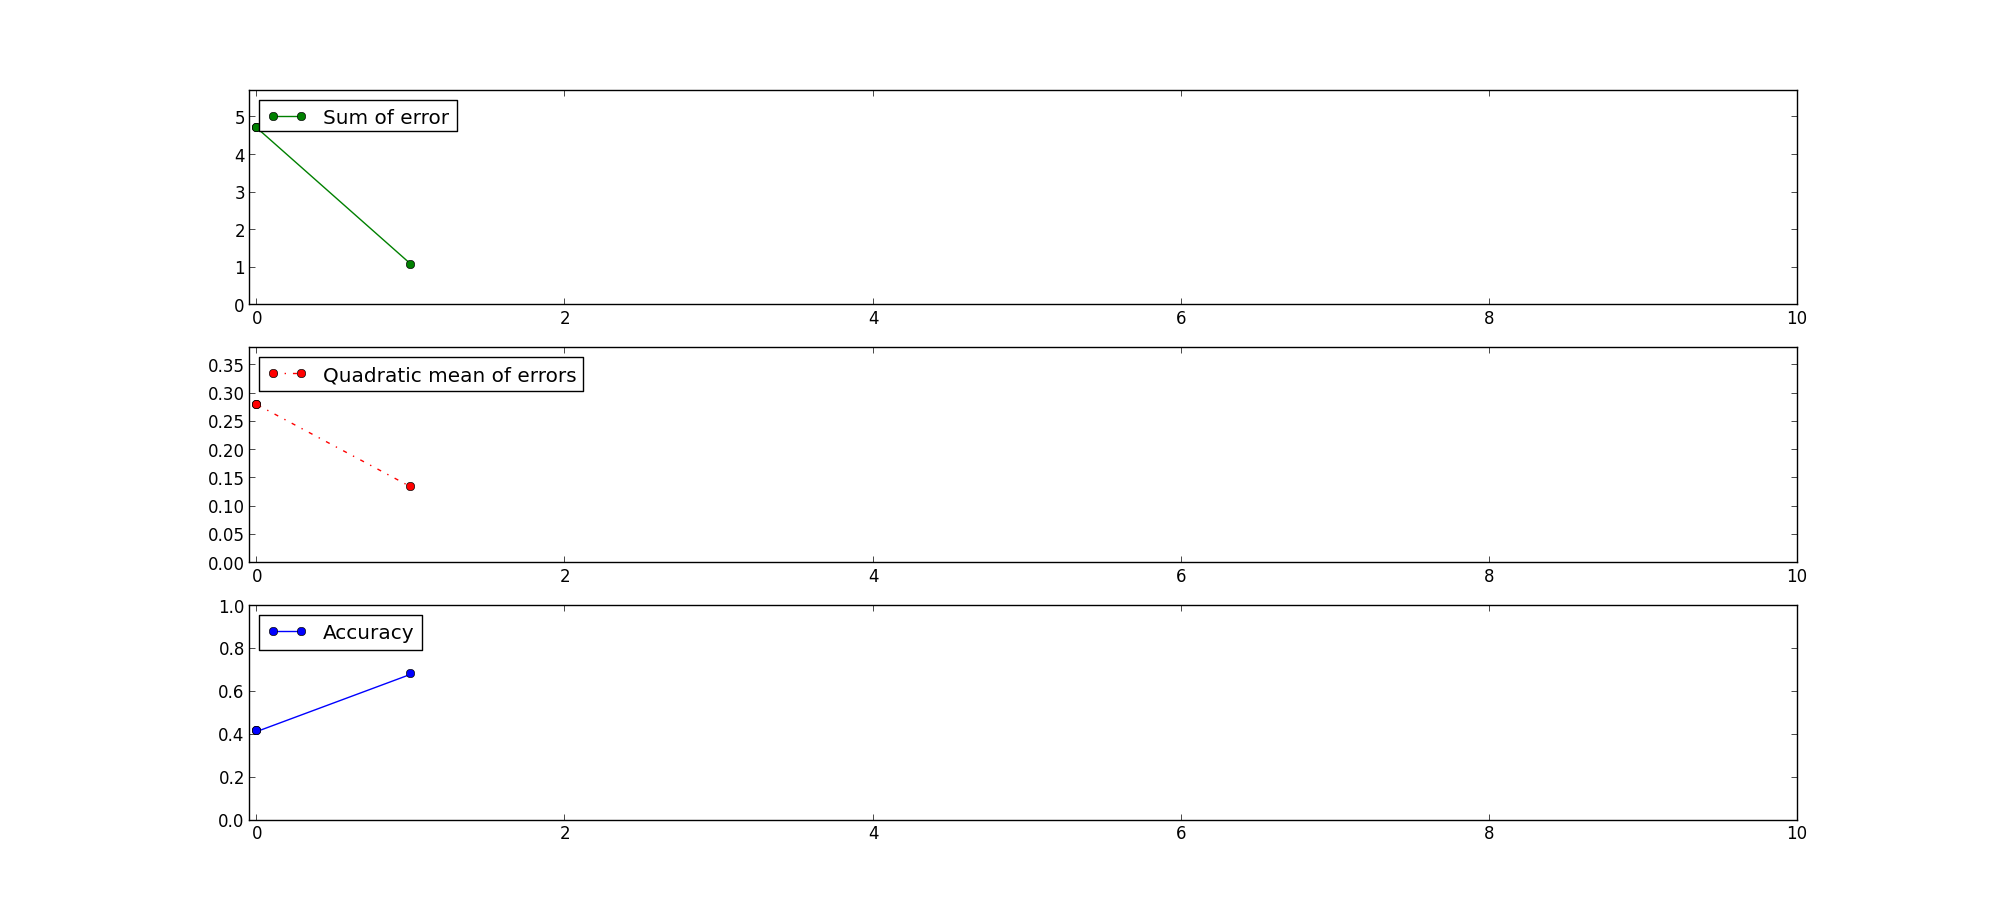
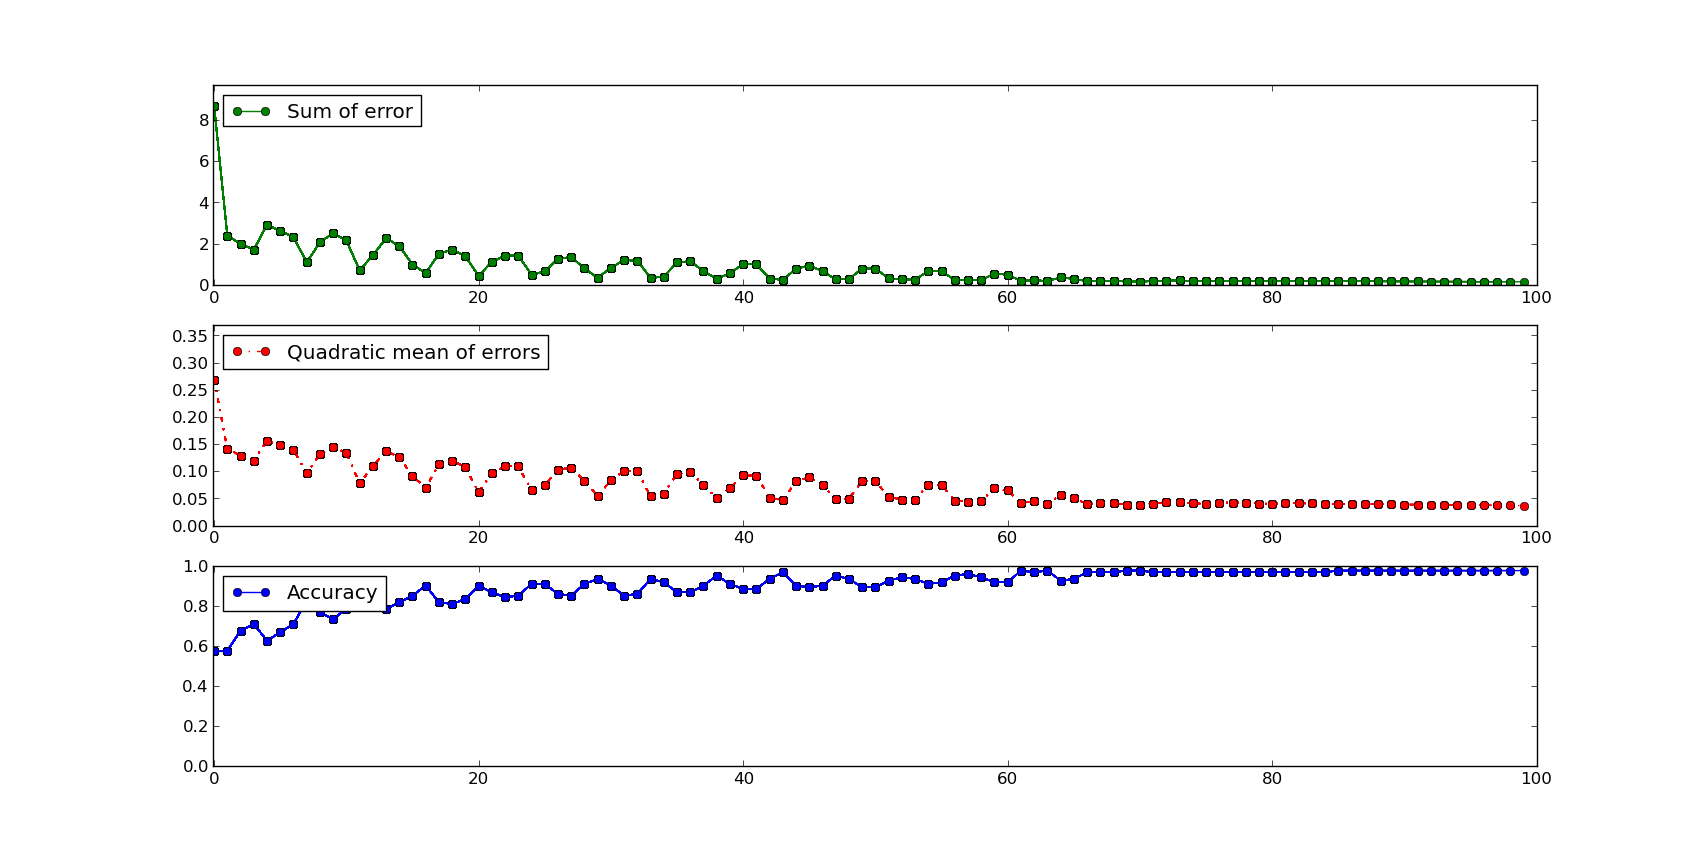
current_error na validation ne training_set, uložení figure na konci s acc

Changed region(s): [[0.0931, 0.2444, 0.9004, 0.8249], [0.1242, 0.0917, 0.9004, 0.2139], [0.0931, 0.886, 0.9004, 0.9166]]

diff --git a/classes_1.py b/classes_1.py
@@ -207,7 +207,7 @@ else:
     
 print "    Every day I'm shuffling!!!! (data sets)"
 shuffle(training_set)
-training_set = training_set[0:5]
+training_set = training_set[0:50]
 print "Preprocessing successfully finished in time: {0:.2f}secs!\n".format(time.time() - preproc_strat_time)
 
 
@@ -219,7 +219,7 @@ error_plot = Plot(size, topologie)
 for i in xrange(100):
     iter_time = time.time()
     
-    accuracy, current_error = net.net_error(training_set)
+    accuracy, current_error = net.net_error(validation)
     error_plot.update(current_error, accuracy)
     
     net.before_last = net.last
@@ -230,7 +230,7 @@ for i in xrange(100):
     
     print "    Current epsilon: {0:.2f}".format(net.eps)
     
-    if current_error[0] < 0.06 and current_error[1] < 0.1:
+    if current_error[0] < 0.1 and current_error[1] < 0.1:
         break
     for vzor in training_set:
         net.weight_correction(vzor,i)
@@ -244,5 +244,10 @@ for i, valid_vzor in enumerate(validation):
     net_out = net.calc_out(valid_vzor[0])
     if valid_vzor[1][0] == int(round(net_out[0])):
         acc_sum += 1
-     
+        
+        
 print "Network accuracy: {0:.3f}".format(float(acc_sum)/len(validation))
+
+acc = float(acc_sum)/len(validation)
+
+error_plot.save_plot(acc)

diff --git a/preprocess.py b/preprocess.py
@@ -147,7 +147,7 @@ def cut(obrazek, pix, (left,up), (x,y), size):
 			i = x-2
 			j = j-1
 			if j == 0:
-				print "prazdny obrazek"
+ 				print "prazdny obrazek"
 				return
 		else:
 			i = i-1
@@ -220,12 +220,12 @@ def cut(obrazek, pix, (left,up), (x,y), size):
  		output_vector.extend(matice[i])
  	
  	#vykresleni matice
-    	arr = zeros((len(matice[0]), len(matice)))
-    	for i in xrange(len(matice[0])):
-    		for j in xrange(len(matice)):
-    			arr[i][j] = matice[j][i]
-   	matshow(arr)
-   	show()
+#     	arr = zeros((len(matice[0]), len(matice)))
+#     	for i in xrange(len(matice[0])):
+#     		for j in xrange(len(matice)):
+#     			arr[i][j] = matice[j][i]
+#    	matshow(arr)
+#    	show()
  	
 	return output_vector
 

diff --git a/ploting.py b/ploting.py
@@ -41,4 +41,8 @@ class Plot():
                 plt.legend(loc='upper left')
         plt.draw()
         
-        plt.savefig('Figures/Learning_curve_Topo:' + str(self.topologie) + "Size:" + str(self.size))
+        plt.savefig('Learning_curve')
+        
+    def save_plot(self, acc):
+        
+        plt.savefig('Figures/Learning_curve_Topo:' + str(self.topologie) + 'Size:' + str(self.size) + 'Acc: ' + str(int(acc*100)) + '%')
